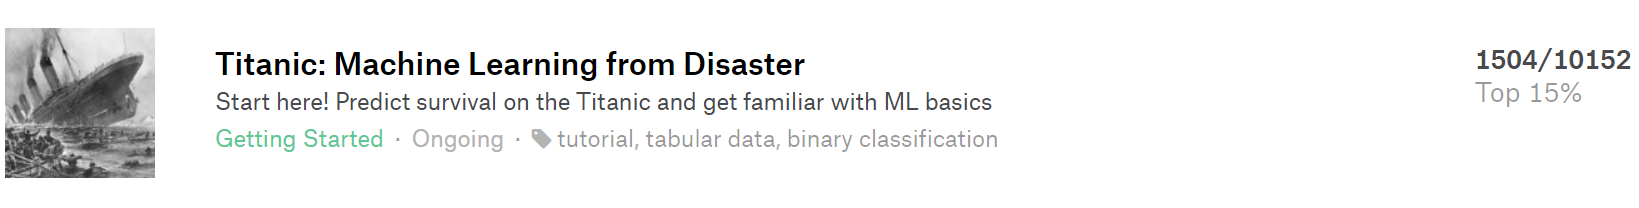
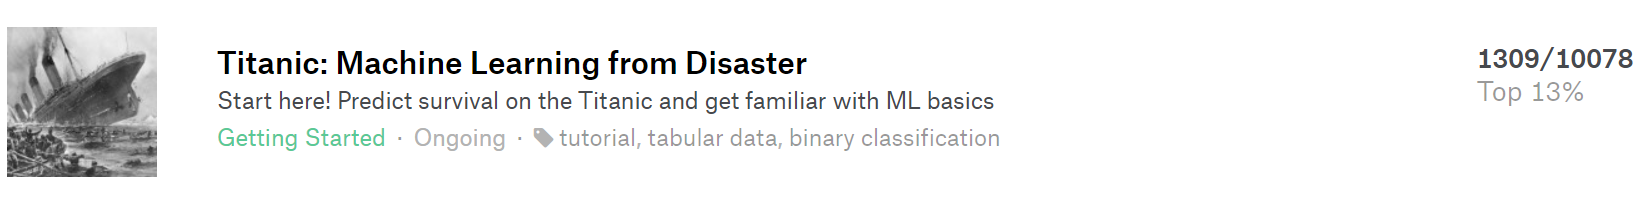
03182019

diff --git a/templates/first_app/profile.html b/templates/first_app/profile.html
@@ -127,7 +127,7 @@ Licensed under MIT
 							Admin </a>
 						</li> -->
 						<li style='text-align: center;'>
-							<a href="https://drive.google.com/open?id=1-G15PWYYvlDlYIYdUETIl2ab4wxCloW6">
+							<a href="https://drive.google.com/open?id=17lDd1xkU6qDO5mCrwH6TWV5S-PU9b2z4">
 							<i class="glyphicon glyphicon-save"style='float:left;'></i>Download CV&nbsp;&nbsp;&nbsp;&nbsp;&nbsp;</a>
 						</li>
 					</ul>
@@ -186,8 +186,8 @@ Licensed under MIT
     <h3 style="font-family:Microsoft JhengHei;color:#298089;"><b><span class='glyphicon glyphicon-road'style='top:2px;'></span> Competition and Certification:</b></h3></br>
     <div class='KAGGLE' style='width:241px;height31.5px;margin-bottom:12px;'><a href='#'><img src="{% static 'images/IPAS_final.jpg' %}" style='width:100%;height:auto;'></a></div>
     <h4 ><b style="font-family:Microsoft JhengHei; line-height: 35px;">Industry Professional Assessment System - Junior Big Data Analyst Certificate</b></br><span style='display: inline-block; vertical-align: top;float: right;'>Jan 2019&nbsp;&nbsp;</span></h4></br></br>
-    <div class='KAGGLE' style='width:409.75px;height:52px;margin-bottom:12px;'><a href='#'><img src="{% static 'images/titanic.png' %}" style='width:100%;height:auto;'></a></div>
-    <h4 ><b style="font-family:Microsoft JhengHei; line-height: 35px;">Kaggle Competition - Titanic: Machine Learning from Disaster</b></br><span style='display: inline-block; vertical-align: top;float: right;'>Best Rank: 15% 1504/10152&nbsp;&nbsp;</span></h4></br></br>
+    <div class='KAGGLE' style='width:409.75px;height:50.75px;margin-bottom:12px;'><a href='#'><img src="{% static 'images/titanic.png' %}" style='width:100%;height:auto;'></a></div>
+    <h4 ><b style="font-family:Microsoft JhengHei; line-height: 35px;">Kaggle Competition - Titanic: Machine Learning from Disaster</b></br><span style='display: inline-block; vertical-align: top;float: right;'>Best Rank: 13% 1309/10078&nbsp;&nbsp;</span></h4></br></br>
     <div class='KAGGLE' style='width:475.33px;height:59.66px;margin-bottom:12px;'><a href='#'><img src="{% static 'images/kaggle.png' %}" style='width:100%;height:auto;'></a></div>
     <h4 ><b style="font-family:Microsoft JhengHei; line-height: 35px;">Kaggle Competition - House Prices: Advanced Regression Techniques</b></br><span style='display: inline-block; vertical-align: top;float: right;'>Best Rank: 33% 1321/4054&nbsp;&nbsp;</span></h4></br></br>
     <div class='SAS' style='width:166.76px;height:35.25px;margin-bottom:12px;'><a href='#'><img src="{% static 'images/SAS.jpg' %}" style='width:100%;height:auto;'></a></div>
